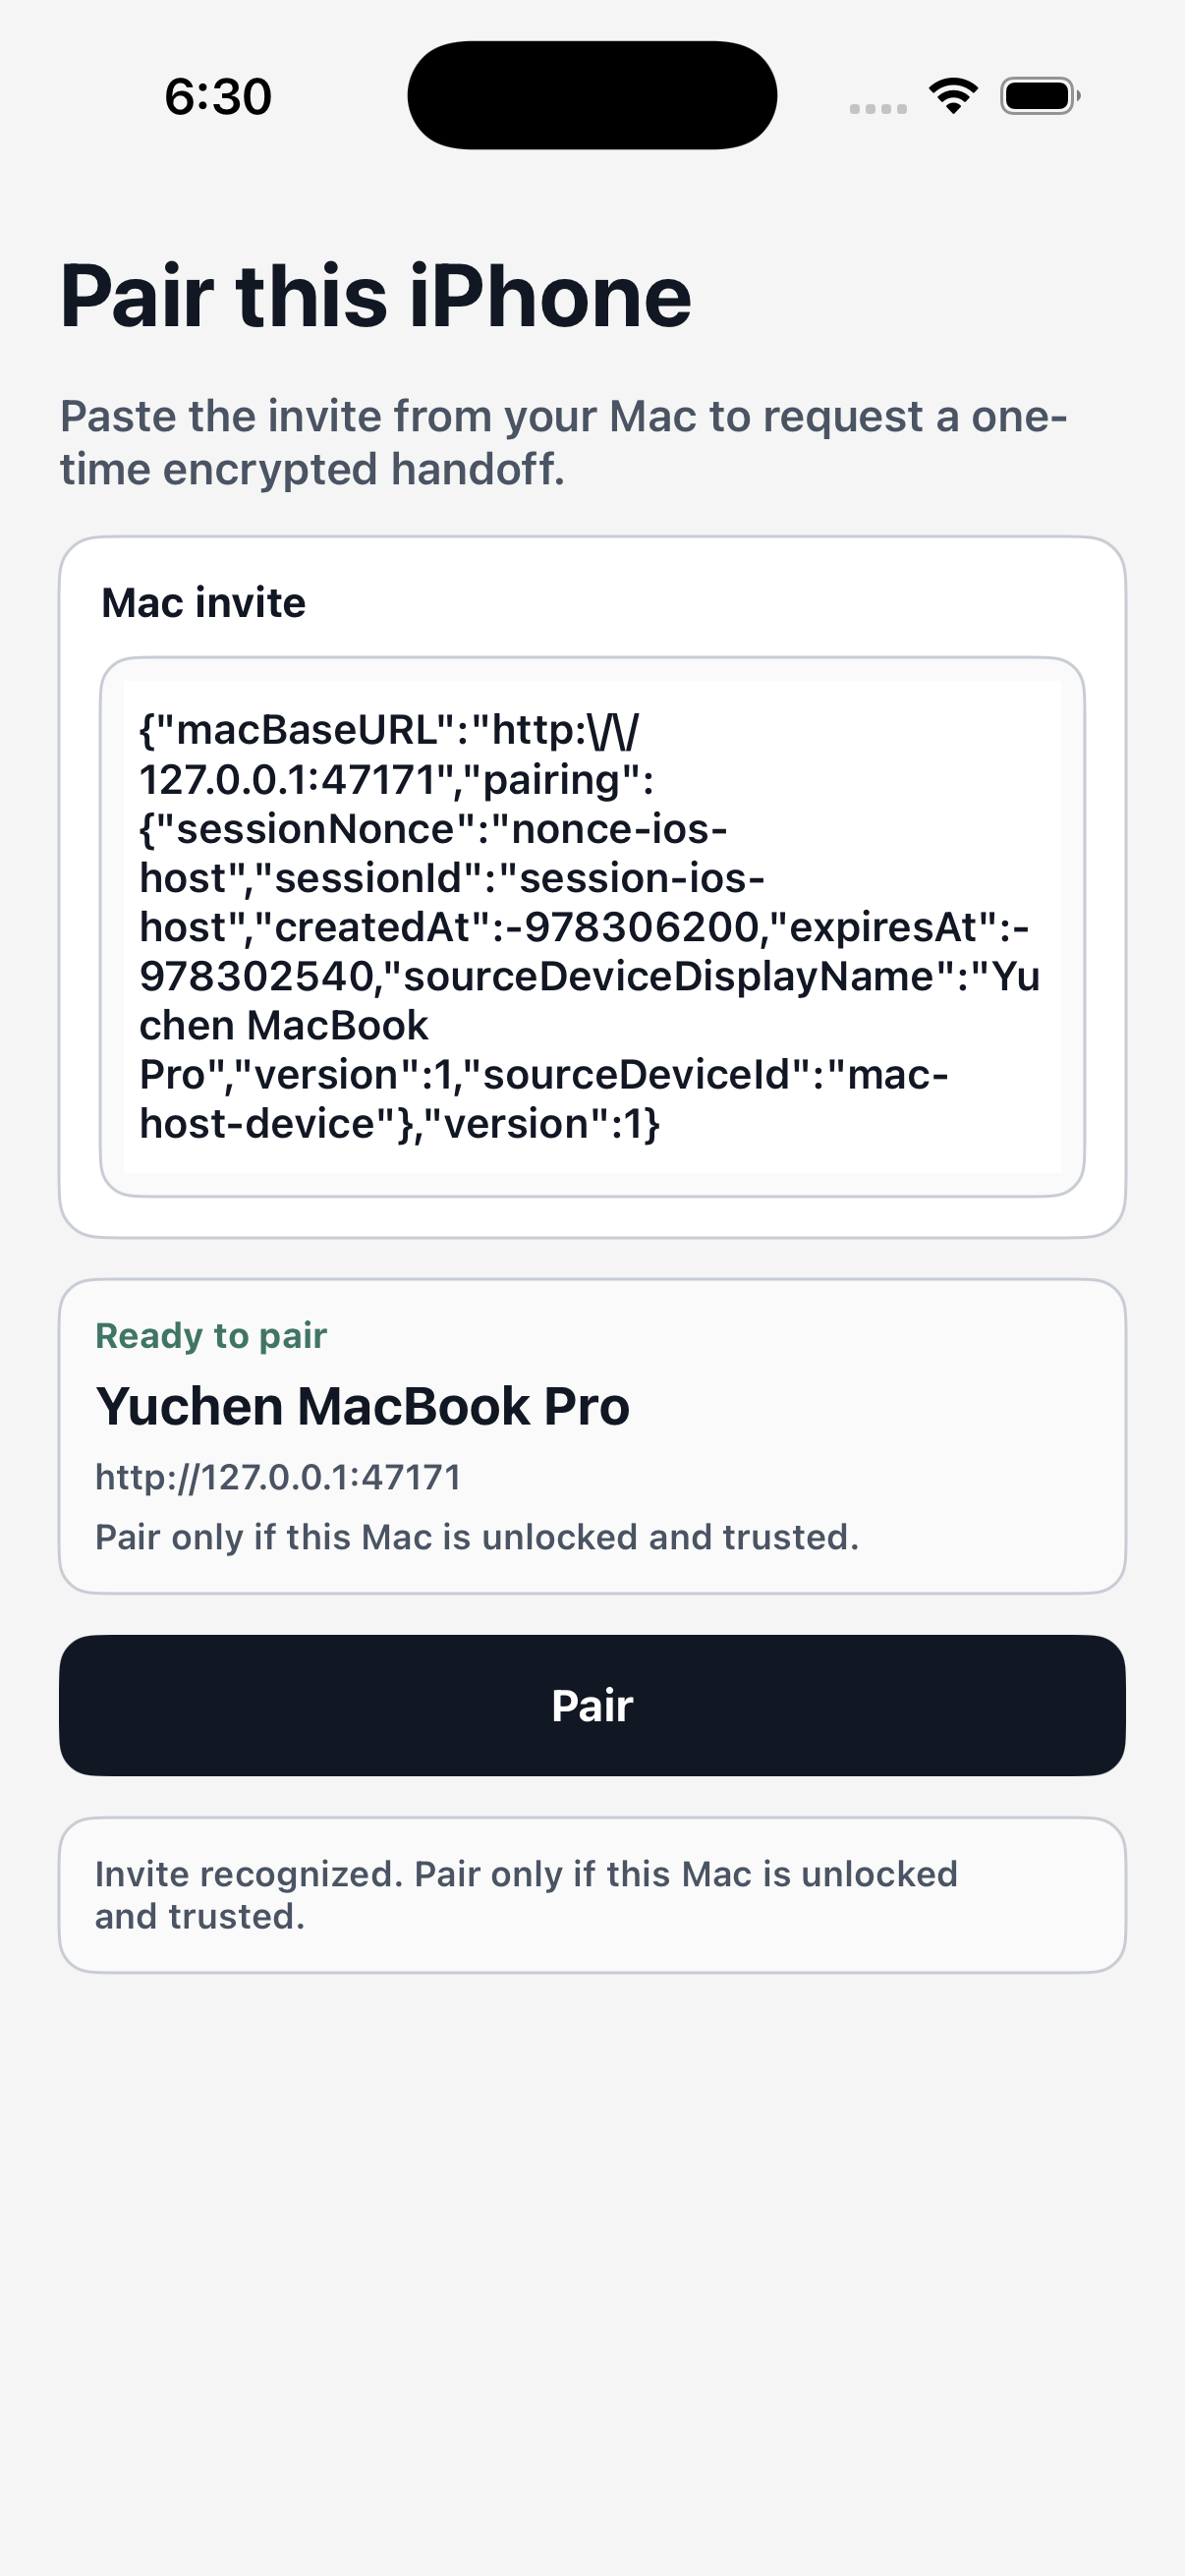
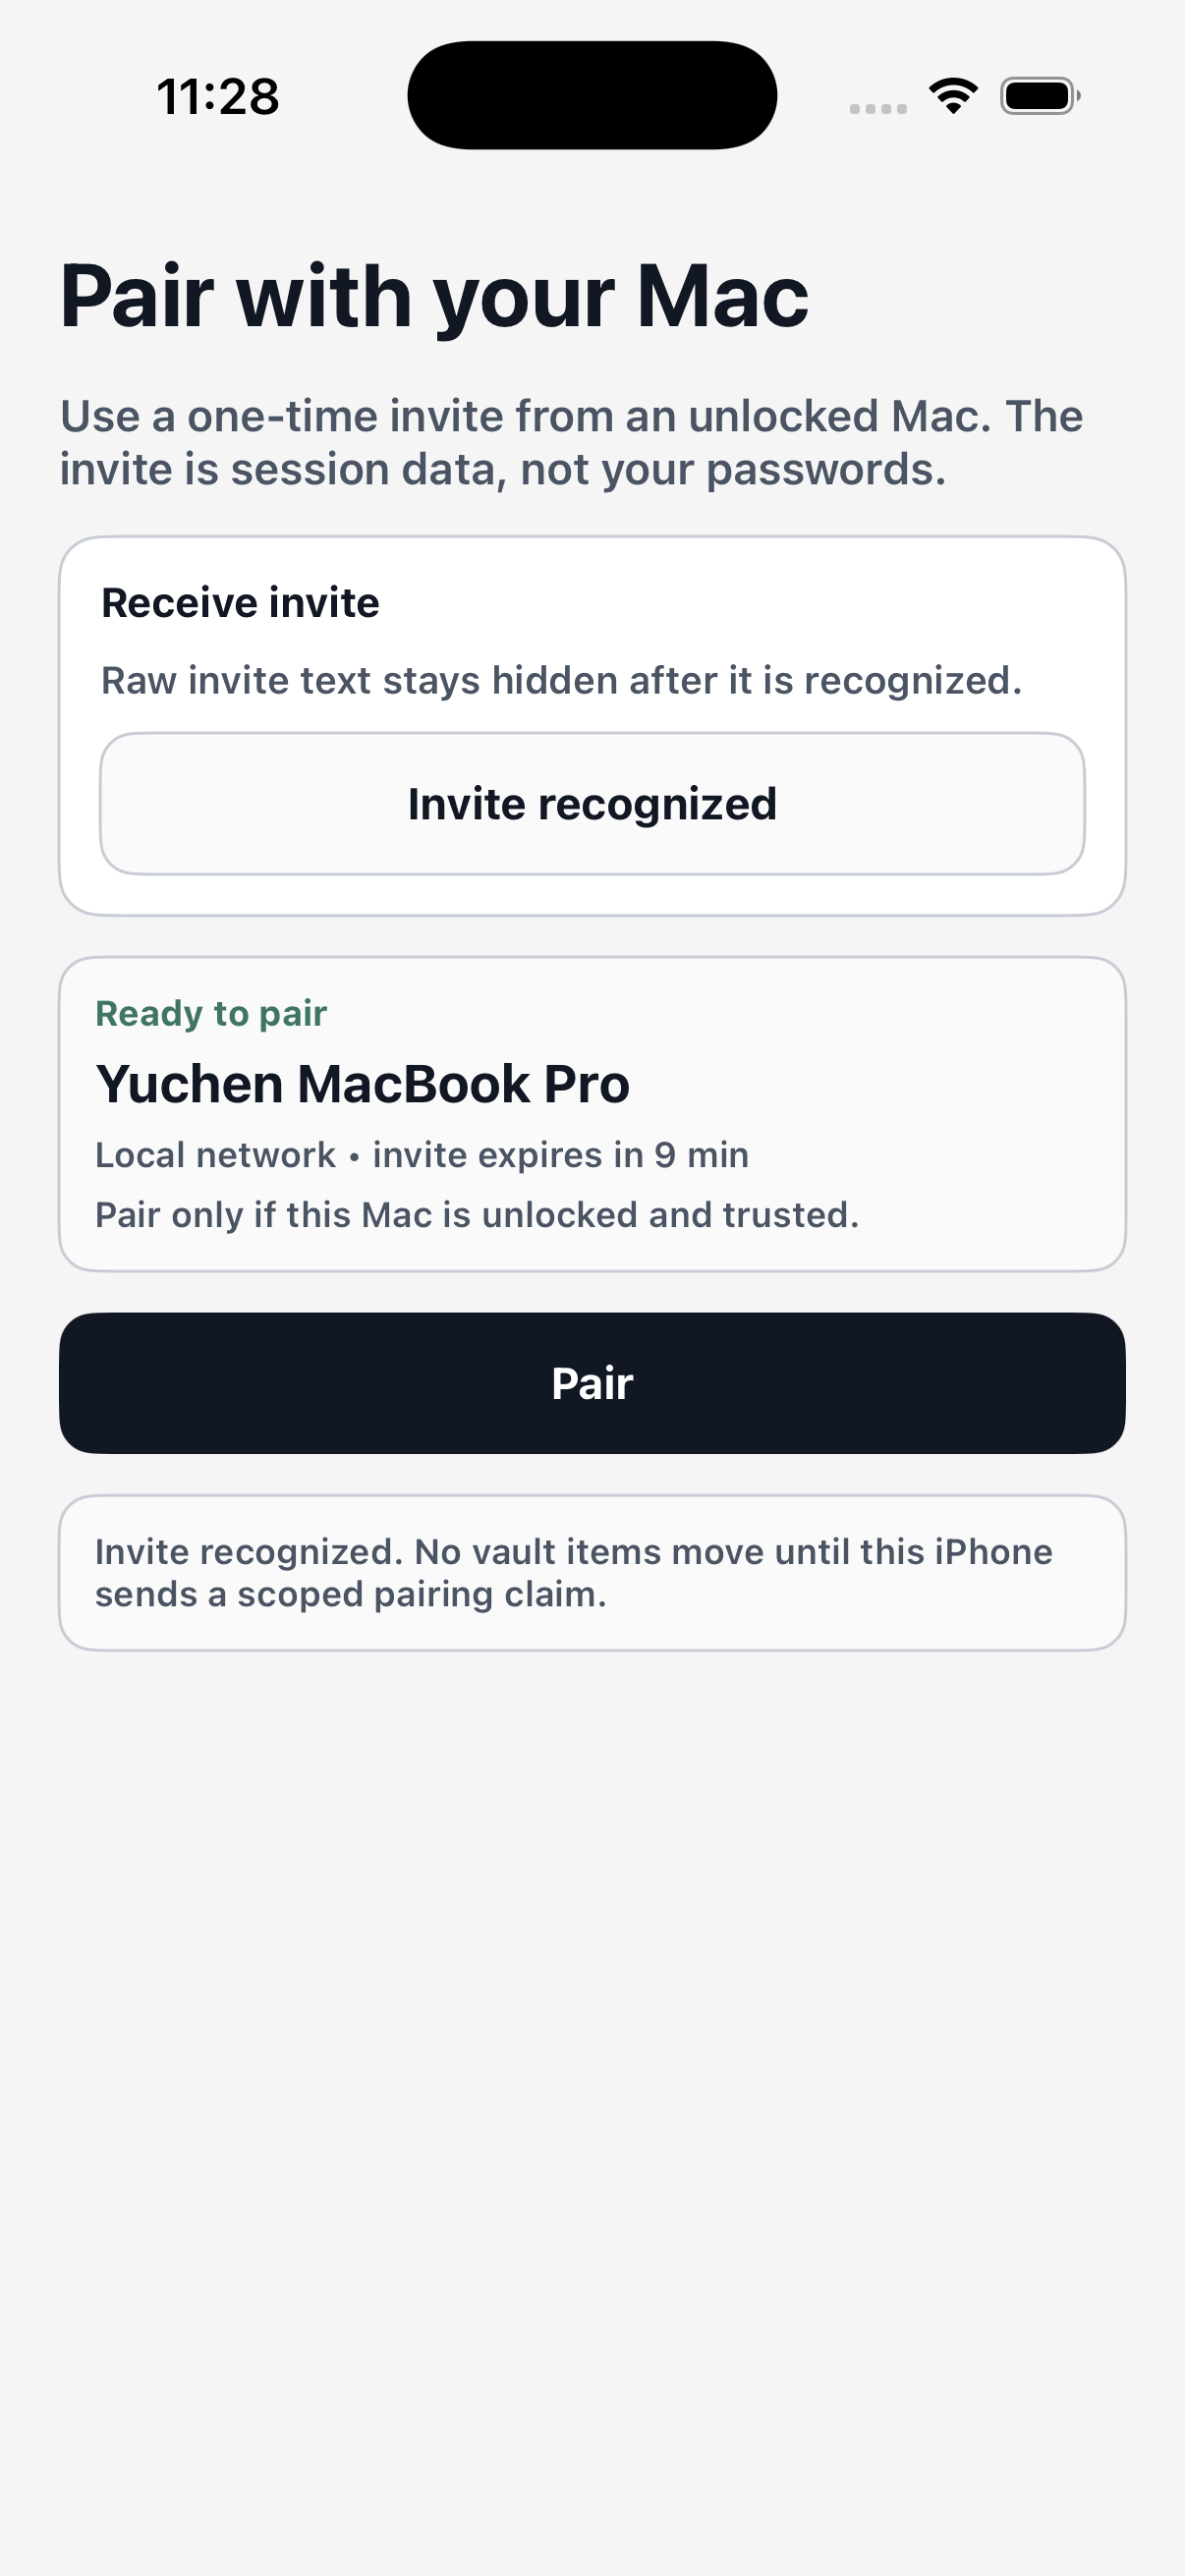
feat: refine ios pairing invite receive ux

diff --git a/apps/ios/App/Sources/Features/Pairing/PairingInviteReceiveView.swift b/apps/ios/App/Sources/Features/Pairing/PairingInviteReceiveView.swift
@@ -21,6 +21,7 @@ final class PairingInviteViewModel: ObservableObject {
     @Published private(set) var inviteText = ""
     @Published private(set) var macDisplayName = ""
     @Published private(set) var macEndpointText = ""
+    @Published private(set) var macInviteDetailText = ""
     @Published private(set) var state: PairingInviteFlowState = .empty
     @Published private(set) var statusMessage = "Paste the invite from your Mac."
 
@@ -63,8 +64,9 @@ final class PairingInviteViewModel: ObservableObject {
             invite = parsedInvite
             macDisplayName = parsedInvite.pairing.sourceDeviceDisplayName
             macEndpointText = parsedInvite.macBaseURL.absoluteString
+            macInviteDetailText = Self.inviteDetailText(for: parsedInvite, now: now())
             state = .ready
-            statusMessage = "Invite recognized. Pair only if this Mac is unlocked and trusted."
+            statusMessage = "Invite recognized. No vault items move until this iPhone sends a scoped pairing claim."
         } catch PairingPayloadError.expired {
             markInvalid(message: "Invite expired. Generate a fresh invite on your Mac.")
         } catch {
@@ -99,6 +101,7 @@ final class PairingInviteViewModel: ObservableObject {
         invite = nil
         macDisplayName = ""
         macEndpointText = ""
+        macInviteDetailText = ""
         state = .empty
         statusMessage = "Paste the invite from your Mac."
     }
@@ -107,6 +110,7 @@ final class PairingInviteViewModel: ObservableObject {
         invite = nil
         macDisplayName = ""
         macEndpointText = ""
+        macInviteDetailText = ""
         state = .invalid
         statusMessage = message
     }
@@ -130,6 +134,24 @@ final class PairingInviteViewModel: ObservableObject {
             )
         }
     }
+
+    private static func inviteDetailText(for invite: MacPairingInvite, now: Date) -> String {
+        let secondsRemaining = max(0, invite.pairing.expiresAt.timeIntervalSince(now))
+        let minutesRemaining = max(1, Int(ceil(secondsRemaining / 60)))
+
+        return "Local network • invite expires in \(minutesRemaining) min"
+    }
+}
+
+private extension PairingInviteViewModel {
+    var hidesRawInviteText: Bool {
+        switch state {
+        case .ready, .pairing, .paired:
+            true
+        case .empty, .invalid, .failed:
+            false
+        }
+    }
 }
 
 struct PairingInviteReceiveView: View {
@@ -142,10 +164,10 @@ struct PairingInviteReceiveView: View {
     var body: some View {
         ScrollView {
             VStack(alignment: .leading, spacing: 14) {
-                Text("Pair this iPhone")
+                Text("Pair with your Mac")
                     .font(.system(size: 30, weight: .bold))
                     .foregroundStyle(PairingInviteStyle.ink)
-                Text("Paste the invite from your Mac to request a one-time encrypted handoff.")
+                Text("Use a one-time invite from an unlocked Mac. The invite is session data, not your passwords.")
                     .font(.system(size: 15, weight: .semibold))
                     .foregroundStyle(PairingInviteStyle.body)
                     .fixedSize(horizontal: false, vertical: true)
@@ -162,26 +184,62 @@ struct PairingInviteReceiveView: View {
 
     private var inviteInput: some View {
         VStack(alignment: .leading, spacing: 10) {
-            Text("Mac invite")
+            Text("Receive invite")
                 .font(.system(size: 14, weight: .bold))
                 .foregroundStyle(PairingInviteStyle.ink)
-            TextEditor(
-                text: Binding(
-                    get: { viewModel.inviteText },
-                    set: { viewModel.replaceInviteText($0) }
+            Text(viewModel.hidesRawInviteText
+                ? "Raw invite text stays hidden after it is recognized."
+                : "Paste the invite copied from UnuVault on this Mac. Raw invite text stays hidden after it is recognized."
+            )
+            .font(.system(size: 13, weight: .semibold))
+            .foregroundStyle(PairingInviteStyle.body)
+            .fixedSize(horizontal: false, vertical: true)
+
+            if viewModel.hidesRawInviteText {
+                Text("Invite recognized")
+                    .font(.system(size: 15, weight: .bold))
+                    .foregroundStyle(PairingInviteStyle.ink)
+                    .frame(maxWidth: .infinity)
+                    .frame(minHeight: 48)
+                    .background(PairingInviteStyle.input)
+                    .clipShape(RoundedRectangle(cornerRadius: 12))
+                    .overlay(
+                        RoundedRectangle(cornerRadius: 12)
+                            .stroke(PairingInviteStyle.border, lineWidth: 1)
+                    )
+                    .accessibilityLabel("Invite recognized")
+            } else {
+                Text("Paste invite")
+                    .font(.system(size: 15, weight: .bold))
+                    .foregroundStyle(PairingInviteStyle.ink)
+                    .frame(maxWidth: .infinity)
+                    .frame(minHeight: 48)
+                    .background(PairingInviteStyle.input)
+                    .clipShape(RoundedRectangle(cornerRadius: 12))
+                    .overlay(
+                        RoundedRectangle(cornerRadius: 12)
+                            .stroke(PairingInviteStyle.border, lineWidth: 1)
+                    )
+                    .accessibilityLabel("Paste invite")
+
+                TextEditor(
+                    text: Binding(
+                        get: { viewModel.inviteText },
+                        set: { viewModel.replaceInviteText($0) }
+                    )
                 )
-            )
-            .font(.system(size: 14, weight: .semibold))
-            .foregroundStyle(PairingInviteStyle.ink)
-            .frame(minHeight: 104)
-            .padding(8)
-            .background(PairingInviteStyle.input)
-            .clipShape(RoundedRectangle(cornerRadius: 12))
-            .overlay(
-                RoundedRectangle(cornerRadius: 12)
-                    .stroke(PairingInviteStyle.border, lineWidth: 1)
-            )
-            .accessibilityLabel("Mac invite")
+                .font(.system(size: 14, weight: .semibold))
+                .foregroundStyle(PairingInviteStyle.ink)
+                .frame(minHeight: 104)
+                .padding(8)
+                .background(PairingInviteStyle.input)
+                .clipShape(RoundedRectangle(cornerRadius: 12))
+                .overlay(
+                    RoundedRectangle(cornerRadius: 12)
+                        .stroke(PairingInviteStyle.border, lineWidth: 1)
+                )
+                .accessibilityLabel("Invite text")
+            }
         }
         .padding(14)
         .frame(maxWidth: .infinity, alignment: .leading)
@@ -198,11 +256,11 @@ struct PairingInviteReceiveView: View {
             Text(viewModel.canPair ? "Ready to pair" : "Waiting for invite")
                 .font(.system(size: 12, weight: .bold))
                 .foregroundStyle(viewModel.canPair ? PairingInviteStyle.secure : PairingInviteStyle.body)
-            Text(viewModel.macDisplayName.isEmpty ? "Paste a Mac invite" : viewModel.macDisplayName)
+            Text(viewModel.macDisplayName.isEmpty ? "Paste invite from Mac" : viewModel.macDisplayName)
                 .font(.system(size: 18, weight: .bold))
                 .foregroundStyle(PairingInviteStyle.ink)
-            if !viewModel.macEndpointText.isEmpty {
-                Text(viewModel.macEndpointText)
+            if !viewModel.macInviteDetailText.isEmpty {
+                Text(viewModel.macInviteDetailText)
                     .font(.system(size: 12, weight: .semibold))
                     .foregroundStyle(PairingInviteStyle.body)
                     .fixedSize(horizontal: false, vertical: true)

diff --git a/apps/ios/App/Tests/PairingInviteFlowTests.swift b/apps/ios/App/Tests/PairingInviteFlowTests.swift
@@ -16,10 +16,11 @@ final class PairingInviteFlowTests: XCTestCase {
         XCTAssertEqual(viewModel.state, .ready)
         XCTAssertEqual(viewModel.macDisplayName, "Yuchen Mac")
         XCTAssertEqual(viewModel.macEndpointText, "http://192.168.1.42:17666")
+        XCTAssertEqual(viewModel.macInviteDetailText, "Local network • invite expires in 1 min")
         XCTAssertTrue(viewModel.canPair)
         XCTAssertEqual(
             viewModel.statusMessage,
-            "Invite recognized. Pair only if this Mac is unlocked and trusted."
+            "Invite recognized. No vault items move until this iPhone sends a scoped pairing claim."
         )
     }
 
@@ -84,9 +85,32 @@ final class PairingInviteFlowTests: XCTestCase {
         )
         let renderedBody = String(describing: view.body)
 
-        XCTAssertTrue(renderedBody.contains("Pair this iPhone"))
-        XCTAssertTrue(renderedBody.contains("Mac invite"))
+        XCTAssertTrue(renderedBody.contains("Pair with your Mac"))
+        XCTAssertTrue(renderedBody.contains("Receive invite"))
+        XCTAssertTrue(renderedBody.contains("Paste invite"))
+        XCTAssertFalse(renderedBody.contains("Pair this iPhone"))
+        XCTAssertFalse(renderedBody.contains("Mac invite"))
         XCTAssertTrue(renderedBody.contains("Pair"))
+    }
+
+    func testPairingViewHidesRawInviteAfterRecognition() throws {
+        let invite = makeInvite()
+        let viewModel = PairingInviteViewModel(
+            now: { Date(timeIntervalSince1970: 1_060) },
+            targetIdentity: makeTarget(),
+            exchange: { _, _ in throw PairingInviteFlowError.exchangeUnavailable }
+        )
+        viewModel.replaceInviteText(try inviteJSON(invite))
+
+        let renderedBody = String(describing: PairingInviteReceiveView(viewModel: viewModel).body)
+
+        XCTAssertTrue(renderedBody.contains("Raw invite text stays hidden after it is recognized."))
+        XCTAssertTrue(renderedBody.contains("Invite recognized"))
+        XCTAssertTrue(renderedBody.contains("Local network • invite expires in 1 min"))
+        XCTAssertFalse(renderedBody.contains("pairing-session-1"))
+        XCTAssertFalse(renderedBody.contains("pairing-nonce-1"))
+        XCTAssertFalse(renderedBody.contains("mac-device-1"))
+        XCTAssertFalse(renderedBody.contains("192.168.1.42"))
     }
 
     private func makeInvite() -> MacPairingInvite {

diff --git a/tests/workspace-entrypoints.spec.ts b/tests/workspace-entrypoints.spec.ts
@@ -195,6 +195,9 @@ describe("workspace entrypoints", () => {
       "apps/ios/App/Sources/Features/Autofill/AutofillOnboardingView.swift",
     );
     expect(evidence).toContain("apps/ios/App/Sources/Features/Pairing/PairingInviteReceiveView.swift");
+    expect(evidence).toContain("current/unuvault/ios-pairing-invite-receive-v2");
+    expect(evidence).toContain("hides raw invite session details after recognition");
+    expect(evidence).toContain("shows invite expiry instead of a raw endpoint URL");
     expect(evidence).toContain("bash scripts/testing/run-ios.sh");
     expect(evidence).toContain("bash scripts/testing/run-ios-ui-host.sh");
     expect(evidence).toContain("No `adapter-mapped` or `adopted` claim");

diff --git a/apps/ios/HostApp/Sources/UnuVaultIOSHostApp.swift b/apps/ios/HostApp/Sources/UnuVaultIOSHostApp.swift
@@ -51,7 +51,7 @@ private struct PairingInviteHostRootView: View {
                 sourceDeviceId: "mac-host-device",
                 sourceDeviceDisplayName: "Yuchen MacBook Pro",
                 createdAt: Date(timeInterval: -60, since: now),
-                expiresAt: Date(timeInterval: 3_600, since: now)
+                expiresAt: Date(timeInterval: 540, since: now)
             )
         )
 

diff --git a/docs/design/mobile-native-adapter-evidence.md b/docs/design/mobile-native-adapter-evidence.md
@@ -19,7 +19,7 @@ evidence backlog, but it does not claim mobile/native adapter adoption.
 - Design-system frame: `current/unuvault/design-system-v1`
 - iOS Pencil source frames:
   `current/unuvault/ios-vault-home-native-locked-v1`,
-  `current/unuvault/ios-pairing-invite-receive-v1`
+  `current/unuvault/ios-pairing-invite-receive-v2`
 
 ## Adapter Implementation Paths
 
@@ -52,7 +52,7 @@ evidence backlog, but it does not claim mobile/native adapter adoption.
 | Safe-area and touch target behavior | The approved receive-invite frame and SwiftUI view use a single scrollable safe-area stack and a 48pt primary Pair control; `bash scripts/testing/run-ios-ui-host.sh` launches the screen in an iPhone simulator and captures screenshot evidence for visual review. | partial |
 | Auth or vault action review/recovery mapping | The receive-invite flow disables pairing until invite validation, fails closed on expired invites, and records error copy; vault unlock/import/recovery actions remain out of scope. | partial |
 | Repo-owned iOS verification command | `bash scripts/testing/run-ios.sh` runs the Swift package tests on an available iPhone simulator; `bash scripts/testing/run-ios-ui-host.sh` builds and launches the receive-invite host app for screenshot proof. | available |
-| Visual/accessibility proof | `current/unuvault/ios-pairing-invite-receive-v1` is promoted, the SwiftUI receive flow exposes labels for the invite field, recognized Mac summary, Pair button, and status panel, and the UI host captures simulator screenshot evidence; no VoiceOver rotor run is recorded yet. | partial |
+| Visual/accessibility proof | `current/unuvault/ios-pairing-invite-receive-v2` is promoted, the SwiftUI receive flow exposes labels for the invite field, recognized Mac summary, Pair button, and status panel, hides raw invite session details after recognition, shows invite expiry instead of a raw endpoint URL, and the UI host captures simulator screenshot evidence; no VoiceOver rotor run is recorded yet. | partial |
 | Dynamic Type | No Dynamic Type behavior, truncation, or layout proof is recorded yet. | missing |
 | VoiceOver | Static accessibility labels exist for the receive-invite field, recognized Mac summary, Pair button, and status panel; rotor path proof is not recorded yet. | partial |
 | 44pt targets | The primary Pair button is 48pt high; full target audit for every control is not recorded yet. | partial |
@@ -72,13 +72,15 @@ simulator UI host screenshot. The tests assert
 minimal SwiftUI copy for login and AutoFill onboarding, plus a Mac pairing
 receive flow that parses QR payloads and invite envelopes, rejects malformed,
 expired, or unsupported endpoint payloads, shows the recognized Mac, disables
-pairing until the invite is valid, builds a target-device identity claim, posts
-the claim to the invite-provided Mac pairing endpoint without a bridge bearer
-token, parses Mac handoff response envelopes, rejects invalid, expired,
-status-failed, or target-mismatched handoff responses, and keeps credential,
-password, and vault plaintext out of UI status copy and the claim/response
-contract. The UI host launches `PairingInviteReceiveView` with deterministic
-sample invite data and records the simulator screenshot path above. It does not
+pairing until the invite is valid, hides raw invite session details after
+recognition, shows invite expiry instead of a raw endpoint URL, builds a
+target-device identity claim, posts the claim to the invite-provided Mac pairing
+endpoint without a bridge bearer token, parses Mac handoff response envelopes,
+rejects invalid, expired, status-failed, or target-mismatched handoff responses,
+and keeps credential, password, and vault plaintext out of UI status copy and
+the claim/response contract. The UI host
+launches `PairingInviteReceiveView` with deterministic sample invite data and
+records the simulator screenshot path above. It does not
 prove native primitive adoption, camera QR scanning, real LAN discovery, local
 decrypt/import, physical iPhone receipt, or a shipped iPhone vault workflow.
 
@@ -98,8 +100,12 @@ This lane stays below `adapter-mapped` until future iOS UI slices supply:
 Current Pencil sync label for this lane:
 `current matches implementation`.
 
-Draft cleanup label for `draft/unuvault/ios-pairing-invite-receive-v1`:
+Draft cleanup label for `draft/unuvault/ios-pairing-invite-receive-v2`:
 `promoted -> delete-candidate` after user-approved cleanup.
+
+Superseded current frame `retained/unuvault/ios-pairing-invite-receive-v1-superseded-by-v2`
+is retained temporarily as implementation history, not current implementation
+source.
 
 Intentionally local values that must not be promoted into the shared library:
 

diff --git a/apps/ios/README.md b/apps/ios/README.md
@@ -4,15 +4,16 @@ This directory holds the SwiftUI iPhone app, AutoFill onboarding flows, and the
 repo-owned Mac pairing receive flow for unuvault.
 
 Current pairing proof is receive-side only. The iOS package exposes a SwiftUI
-paste-invite flow from `current/unuvault/ios-pairing-invite-receive-v1`, parses
+paste-invite flow from `current/unuvault/ios-pairing-invite-receive-v2`, parses
 the Mac companion invite envelope and QR payload, rejects expired, malformed, or
-unsupported-endpoint payloads, shows the recognized Mac, builds a target-device
-identity claim with `deviceId`, `displayName`, and `publicKeyFingerprint`, posts
-that claim to the invite-provided Mac pairing endpoint without a bridge bearer
-token, and parses the Mac handoff response envelope while rejecting invalid,
-expired, status-failed, or target-mismatched responses. It does not claim camera
-QR scanning, real LAN discovery, local decrypt/import, or physical iPhone
-receipt yet.
+unsupported-endpoint payloads, shows the recognized Mac, hides raw invite session
+details after recognition, shows invite expiry instead of a raw endpoint URL,
+builds a target-device identity claim with `deviceId`, `displayName`, and
+`publicKeyFingerprint`, posts that claim to the invite-provided Mac pairing
+endpoint without a bridge bearer token, and parses the Mac handoff response
+envelope while rejecting invalid, expired, status-failed, or target-mismatched
+responses. It does not claim camera QR scanning, real LAN discovery, local
+decrypt/import, or physical iPhone receipt yet.
 
 Run:
 

diff --git a/README.md b/README.md
@@ -94,7 +94,7 @@ recovery flows; vault unlock remains the secret-release boundary.
 - Current Mac companion source frame:
   `current/unuvault/mac-companion-core-flows-v1.2`.
 - Current iOS source frames: `current/unuvault/ios-vault-home-native-locked-v1`
-  and `current/unuvault/ios-pairing-invite-receive-v1`.
+  and `current/unuvault/ios-pairing-invite-receive-v2`.
 - Small UI copy or polish uses the `Lightweight UI Path` in the portfolio
   Pencil gate.
 - Historical design specs are planning context only unless the operating index
@@ -283,11 +283,13 @@ For the native Mac companion proof:
   payload, reject expired, invalid-version, malformed, or unsupported-endpoint
   payloads, and build a target-device identity claim with `deviceId`,
   `displayName`, and `publicKeyFingerprint`. It also proves the approved
-  `current/unuvault/ios-pairing-invite-receive-v1` SwiftUI receive flow can
-  accept pasted invite JSON, surface the recognized Mac, disable pairing until
-  an invite is valid, fail closed on expired invites, post the target claim to
-  the invite-provided Mac pairing endpoint with no bridge bearer token, parse
-  the Mac handoff response envelope, reject invalid, expired, status failed, or
+  `current/unuvault/ios-pairing-invite-receive-v2` SwiftUI receive flow can
+  accept invite text before validation, surface the recognized Mac, hide raw
+  invite session details after recognition, show invite expiry instead of a raw
+  endpoint URL, disable pairing until an invite is valid, fail closed on expired
+  invites, post the target claim to the invite-provided Mac pairing endpoint
+  with no bridge bearer token, parse the Mac handoff response envelope, reject
+  invalid, expired, status failed, or
   target-mismatched responses, and keep credential, password, and vault
   plaintext out of the claim/response contract. It does not claim camera QR
   scanning, real LAN discovery, local decrypt/import, or physical iPhone receipt
@@ -295,7 +297,7 @@ For the native Mac companion proof:
 - iOS receive-invite visual proof is available through:
   `bash scripts/testing/run-ios-ui-host.sh`
   This uses XcodeGen to build a simulator host app for
-  `current/unuvault/ios-pairing-invite-receive-v1`, launches the SwiftUI screen
+  `current/unuvault/ios-pairing-invite-receive-v2`, launches the SwiftUI screen
   with deterministic sample invite data, and writes
   `docs/design/evidence/2026-05-29-ios-ui-host/ios-pairing-invite-host.png`.
   It proves simulator launch and screenshot capture for the receive-invite

diff --git a/docs/design/mac-companion-mvp-evidence.md b/docs/design/mac-companion-mvp-evidence.md
@@ -142,12 +142,14 @@ trusted-status surface first, keeps credential entry behind an explicit
   malformed, or unsupported-endpoint payloads, and build a target-device
   identity claim with `deviceId`, `displayName`, and `publicKeyFingerprint`
   without encoding credential, password, or vault material. It also proves the
-  approved `current/unuvault/ios-pairing-invite-receive-v1` SwiftUI receive
-  flow accepts pasted invite JSON, shows the recognized Mac, disables pairing
-  until invite validation, fails closed on expired invites, posts the claim to
-  the invite-provided Mac pairing endpoint without a bridge bearer token, parses
-  Mac handoff response envelopes, and rejects invalid, expired, status-failed,
-  or target-mismatched responses. It does not claim camera QR scanning, real LAN
+  approved `current/unuvault/ios-pairing-invite-receive-v2` SwiftUI receive
+  flow accepts invite text before validation, shows the recognized Mac, hides raw
+  invite session details after recognition, shows invite expiry instead of a raw
+  endpoint URL, disables pairing until invite validation, fails closed on expired
+  invites, posts the claim to the
+  invite-provided Mac pairing endpoint without a bridge bearer token, parses Mac
+  handoff response envelopes, and rejects invalid, expired, status-failed, or
+  target-mismatched responses. It does not claim camera QR scanning, real LAN
   discovery, local decrypt/import, or physical iPhone receipt.
 - `pnpm test:macos:recovery-boundary` proves encrypted local vault backup data
   contains only an AES-GCM envelope, does not contain the credential id,